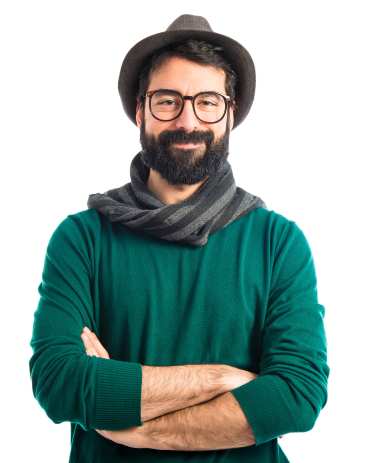
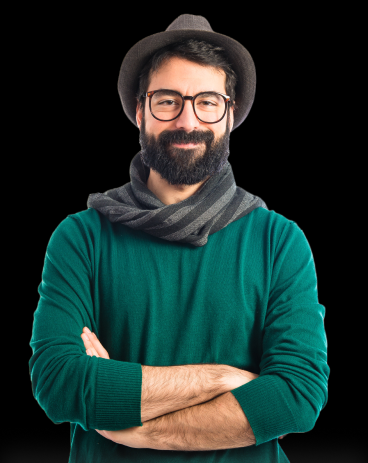
Home Profile Image Added

diff --git a/dist/css/style.css b/dist/css/style.css
@@ -1,1 +1,1 @@
-@import url(https://fonts.googleapis.com/css2?family=DM+Sans:ital,opsz,wght@0,9..40,100..1000;1,9..40,100..1000&display=swap);*,::after,::before{--tw-border-spacing-x:0;--tw-border-spacing-y:0;--tw-translate-x:0;--tw-translate-y:0;--tw-rotate:0;--tw-skew-x:0;--tw-skew-y:0;--tw-scale-x:1;--tw-scale-y:1;--tw-scroll-snap-strictness:proximity;--tw-ring-offset-width:0px;--tw-ring-offset-color:#fff;--tw-ring-color:rgb(59 130 246 / 0.5);--tw-ring-offset-shadow:0 0 #0000;--tw-ring-shadow:0 0 #0000;--tw-shadow:0 0 #0000;--tw-shadow-colored:0 0 #0000}::backdrop{--tw-border-spacing-x:0;--tw-border-spacing-y:0;--tw-translate-x:0;--tw-translate-y:0;--tw-rotate:0;--tw-skew-x:0;--tw-skew-y:0;--tw-scale-x:1;--tw-scale-y:1;--tw-scroll-snap-strictness:proximity;--tw-ring-offset-width:0px;--tw-ring-offset-color:#fff;--tw-ring-color:rgb(59 130 246 / 0.5);--tw-ring-offset-shadow:0 0 #0000;--tw-ring-shadow:0 0 #0000;--tw-shadow:0 0 #0000;--tw-shadow-colored:0 0 #0000}*,::after,::before{box-sizing:border-box;border-width:0;border-style:solid;border-color:#e5e7eb}::after,::before{--tw-content:''}:host,html{line-height:1.5;-webkit-text-size-adjust:100%;-moz-tab-size:4;-o-tab-size:4;tab-size:4;font-family:ui-sans-serif,system-ui,sans-serif,"Apple Color Emoji","Segoe UI Emoji","Segoe UI Symbol","Noto Color Emoji";font-feature-settings:normal;font-variation-settings:normal;-webkit-tap-highlight-color:transparent}body{margin:0;line-height:inherit}hr{height:0;color:inherit;border-top-width:1px}abbr:where([title]){-webkit-text-decoration:underline dotted;text-decoration:underline dotted}h1,h2,h3,h4,h5,h6{font-size:inherit;font-weight:inherit}a{color:inherit;text-decoration:inherit}b,strong{font-weight:bolder}code,kbd,pre,samp{font-family:ui-monospace,SFMono-Regular,Menlo,Monaco,Consolas,"Liberation Mono","Courier New",monospace;font-feature-settings:normal;font-variation-settings:normal;font-size:1em}small{font-size:80%}sub,sup{font-size:75%;line-height:0;position:relative;vertical-align:baseline}sub{bottom:-.25em}sup{top:-.5em}table{text-indent:0;border-color:inherit;border-collapse:collapse}button,input,optgroup,select,textarea{font-family:inherit;font-feature-settings:inherit;font-variation-settings:inherit;font-size:100%;font-weight:inherit;line-height:inherit;letter-spacing:inherit;color:inherit;margin:0;padding:0}button,select{text-transform:none}button,input:where([type=button]),input:where([type=reset]),input:where([type=submit]){-webkit-appearance:button;background-color:transparent;background-image:none}:-moz-focusring{outline:auto}:-moz-ui-invalid{box-shadow:none}progress{vertical-align:baseline}::-webkit-inner-spin-button,::-webkit-outer-spin-button{height:auto}[type=search]{-webkit-appearance:textfield;outline-offset:-2px}::-webkit-search-decoration{-webkit-appearance:none}::-webkit-file-upload-button{-webkit-appearance:button;font:inherit}summary{display:list-item}blockquote,dd,dl,figure,h1,h2,h3,h4,h5,h6,hr,p,pre{margin:0}fieldset{margin:0;padding:0}legend{padding:0}menu,ol,ul{list-style:none;margin:0;padding:0}dialog{padding:0}textarea{resize:vertical}input::-moz-placeholder,textarea::-moz-placeholder{opacity:1;color:#9ca3af}input::placeholder,textarea::placeholder{opacity:1;color:#9ca3af}[role=button],button{cursor:pointer}:disabled{cursor:default}audio,canvas,embed,iframe,img,object,svg,video{display:block;vertical-align:middle}img,video{max-width:100%;height:auto}[hidden]:where(:not([hidden=until-found])){display:none}.linearText{background:linear-gradient(90deg,#f5bd4d .36%,#f89222 99.88%);background-clip:text;-webkit-background-clip:text;-webkit-text-fill-color:transparent}.fixed{position:fixed}.left-0{left:0}.right-0{right:0}.top-0{top:0}.mt-20{margin-top:5rem}.mt-24{margin-top:6rem}.mt-40{margin-top:10rem}.flex{display:flex}.h-10{height:2.5rem}.w-10{width:2.5rem}.w-2\/3{width:66.666667%}.w-2\/6{width:33.333333%}.cursor-pointer{cursor:pointer}.flex-col{flex-direction:column}.items-center{align-items:center}.justify-between{justify-content:space-between}.gap-1{gap:.25rem}.gap-2{gap:.5rem}.gap-4{gap:1rem}.rounded-full{border-radius:9999px}.rounded-md{border-radius:.375rem}.border-2{border-width:2px}.border-l-2{border-left-width:2px}.border-\[\#353535\]{--tw-border-opacity:1;border-color:rgb(53 53 53 / var(--tw-border-opacity))}.border-primary{--tw-border-opacity:1;border-color:rgb(245 189 77 / var(--tw-border-opacity))}.bg-\[\#121414\]{--tw-bg-opacity:1;background-color:rgb(18 20 20 / var(--tw-bg-opacity))}.bg-\[\#171B1A\]{--tw-bg-opacity:1;background-color:rgb(23 27 26 / var(--tw-bg-opacity))}.p-1{padding:.25rem}.px-20{padding-left:5rem;padding-right:5rem}.px-4{padding-left:1rem;padding-right:1rem}.px-6{padding-left:1.5rem;padding-right:1.5rem}.py-3{padding-top:.75rem;padding-bottom:.75rem}.py-4{padding-top:1rem;padding-bottom:1rem}.pl-6{padding-left:1.5rem}.font-dmSans{font-family:"DM Sans",sans-serif}.text-2xl{font-size:1.5rem;line-height:2rem}.text-3xl{font-size:1.875rem;line-height:2.25rem}.text-base{font-size:1rem;line-height:1.5rem}.text-lg{font-size:1.125rem;line-height:1.75rem}.font-bold{font-weight:700}.font-medium{font-weight:500}.text-\[\#C2C2C2\]{--tw-text-opacity:1;color:rgb(194 194 194 / var(--tw-text-opacity))}.text-white{--tw-text-opacity:1;color:rgb(255 255 255 / var(--tw-text-opacity))}.backgroundLinear{background:linear-gradient(90deg,#f5bd4d 00.36%,#f89222 9999.88%)}@media (min-width:768px){.md\:px-6{padding-left:1.5rem;padding-right:1.5rem}}
+@import url(https://fonts.googleapis.com/css2?family=DM+Sans:ital,opsz,wght@0,9..40,100..1000;1,9..40,100..1000&display=swap);*,::after,::before{--tw-border-spacing-x:0;--tw-border-spacing-y:0;--tw-translate-x:0;--tw-translate-y:0;--tw-rotate:0;--tw-skew-x:0;--tw-skew-y:0;--tw-scale-x:1;--tw-scale-y:1;--tw-scroll-snap-strictness:proximity;--tw-ring-offset-width:0px;--tw-ring-offset-color:#fff;--tw-ring-color:rgb(59 130 246 / 0.5);--tw-ring-offset-shadow:0 0 #0000;--tw-ring-shadow:0 0 #0000;--tw-shadow:0 0 #0000;--tw-shadow-colored:0 0 #0000}::backdrop{--tw-border-spacing-x:0;--tw-border-spacing-y:0;--tw-translate-x:0;--tw-translate-y:0;--tw-rotate:0;--tw-skew-x:0;--tw-skew-y:0;--tw-scale-x:1;--tw-scale-y:1;--tw-scroll-snap-strictness:proximity;--tw-ring-offset-width:0px;--tw-ring-offset-color:#fff;--tw-ring-color:rgb(59 130 246 / 0.5);--tw-ring-offset-shadow:0 0 #0000;--tw-ring-shadow:0 0 #0000;--tw-shadow:0 0 #0000;--tw-shadow-colored:0 0 #0000}*,::after,::before{box-sizing:border-box;border-width:0;border-style:solid;border-color:#e5e7eb}::after,::before{--tw-content:''}:host,html{line-height:1.5;-webkit-text-size-adjust:100%;-moz-tab-size:4;-o-tab-size:4;tab-size:4;font-family:ui-sans-serif,system-ui,sans-serif,"Apple Color Emoji","Segoe UI Emoji","Segoe UI Symbol","Noto Color Emoji";font-feature-settings:normal;font-variation-settings:normal;-webkit-tap-highlight-color:transparent}body{margin:0;line-height:inherit}hr{height:0;color:inherit;border-top-width:1px}abbr:where([title]){-webkit-text-decoration:underline dotted;text-decoration:underline dotted}h1,h2,h3,h4,h5,h6{font-size:inherit;font-weight:inherit}a{color:inherit;text-decoration:inherit}b,strong{font-weight:bolder}code,kbd,pre,samp{font-family:ui-monospace,SFMono-Regular,Menlo,Monaco,Consolas,"Liberation Mono","Courier New",monospace;font-feature-settings:normal;font-variation-settings:normal;font-size:1em}small{font-size:80%}sub,sup{font-size:75%;line-height:0;position:relative;vertical-align:baseline}sub{bottom:-.25em}sup{top:-.5em}table{text-indent:0;border-color:inherit;border-collapse:collapse}button,input,optgroup,select,textarea{font-family:inherit;font-feature-settings:inherit;font-variation-settings:inherit;font-size:100%;font-weight:inherit;line-height:inherit;letter-spacing:inherit;color:inherit;margin:0;padding:0}button,select{text-transform:none}button,input:where([type=button]),input:where([type=reset]),input:where([type=submit]){-webkit-appearance:button;background-color:transparent;background-image:none}:-moz-focusring{outline:auto}:-moz-ui-invalid{box-shadow:none}progress{vertical-align:baseline}::-webkit-inner-spin-button,::-webkit-outer-spin-button{height:auto}[type=search]{-webkit-appearance:textfield;outline-offset:-2px}::-webkit-search-decoration{-webkit-appearance:none}::-webkit-file-upload-button{-webkit-appearance:button;font:inherit}summary{display:list-item}blockquote,dd,dl,figure,h1,h2,h3,h4,h5,h6,hr,p,pre{margin:0}fieldset{margin:0;padding:0}legend{padding:0}menu,ol,ul{list-style:none;margin:0;padding:0}dialog{padding:0}textarea{resize:vertical}input::-moz-placeholder,textarea::-moz-placeholder{opacity:1;color:#9ca3af}input::placeholder,textarea::placeholder{opacity:1;color:#9ca3af}[role=button],button{cursor:pointer}:disabled{cursor:default}audio,canvas,embed,iframe,img,object,svg,video{display:block;vertical-align:middle}img,video{max-width:100%;height:auto}[hidden]:where(:not([hidden=until-found])){display:none}.linearText{background:linear-gradient(90deg,#f5bd4d .36%,#f89222 99.88%);background-clip:text;-webkit-background-clip:text;-webkit-text-fill-color:transparent}.fixed{position:fixed}.left-0{left:0}.right-0{right:0}.top-0{top:0}.mt-24{margin-top:6rem}.flex{display:flex}.h-10{height:2.5rem}.h-8{height:2rem}.h-96{height:24rem}.w-10{width:2.5rem}.w-2\/3{width:66.666667%}.w-2\/6{width:33.333333%}.w-8{width:2rem}.w-96{width:24rem}.cursor-pointer{cursor:pointer}.flex-col{flex-direction:column}.items-center{align-items:center}.justify-center{justify-content:center}.justify-between{justify-content:space-between}.gap-1{gap:.25rem}.gap-2{gap:.5rem}.gap-4{gap:1rem}.rounded-full{border-radius:9999px}.rounded-md{border-radius:.375rem}.border-2{border-width:2px}.border-l-2{border-left-width:2px}.border-\[\#353535\]{--tw-border-opacity:1;border-color:rgb(53 53 53 / var(--tw-border-opacity))}.border-primary{--tw-border-opacity:1;border-color:rgb(245 189 77 / var(--tw-border-opacity))}.bg-\[\#000\]{--tw-bg-opacity:1;background-color:rgb(0 0 0 / var(--tw-bg-opacity))}.bg-\[\#121414\]{--tw-bg-opacity:1;background-color:rgb(18 20 20 / var(--tw-bg-opacity))}.bg-\[\#171B1A\]{--tw-bg-opacity:1;background-color:rgb(23 27 26 / var(--tw-bg-opacity))}.p-1{padding:.25rem}.px-20{padding-left:5rem;padding-right:5rem}.px-4{padding-left:1rem;padding-right:1rem}.px-6{padding-left:1.5rem;padding-right:1.5rem}.py-3{padding-top:.75rem;padding-bottom:.75rem}.py-4{padding-top:1rem;padding-bottom:1rem}.pl-6{padding-left:1.5rem}.font-dmSans{font-family:"DM Sans",sans-serif}.text-2xl{font-size:1.5rem;line-height:2rem}.text-3xl{font-size:1.875rem;line-height:2.25rem}.text-base{font-size:1rem;line-height:1.5rem}.text-lg{font-size:1.125rem;line-height:1.75rem}.font-bold{font-weight:700}.font-medium{font-weight:500}.text-\[\#C2C2C2\]{--tw-text-opacity:1;color:rgb(194 194 194 / var(--tw-text-opacity))}.text-white{--tw-text-opacity:1;color:rgb(255 255 255 / var(--tw-text-opacity))}.backgroundLinear{background:linear-gradient(90deg,#f5bd4d 00.36%,#f89222 9999.88%)}@media (min-width:768px){.md\:px-6{padding-left:1.5rem;padding-right:1.5rem}}

diff --git a/index.html b/index.html
@@ -1,5 +1,5 @@
 <!DOCTYPE html>
-<html lang="en">
+<html lang="en" data-theme="dark">
 <head>
     <meta charset="UTF-8">
     <meta name="viewport" content="width=device-width, initial-scale=1.0">
@@ -33,39 +33,79 @@
     <!-- ========================== Main Start =================================== -->
      <main class="px-4 md:px-6 mt-24">
         <!-- ================= Left Side Start =================== -->
-         <aside>
-            <!-- =================== Nav Links Start ==================== -->
-             <div class="mt-20">
-                <ul class="flex flex-col gap-4 mt-40">
-                    <li>
-                        <a href="#" class="cursor-pointer w-10 h-10">
-                            <img src="./images/home1.svg" alt="home menu" loading="lazy">
-                        </a>
-                    </li>
-                    <li>
-                        <a href="#" class="cursor-pointer w-10 h-10">
-                            <img src="./images/about.svg" alt="home menu" loading="lazy">
-                        </a>
-                    </li>
-                    <li>
-                        <a href="#" class="cursor-pointer w-10 h-10">
-                            <img src="./images/portfolio.svg" alt="home menu" loading="lazy">
-                        </a>
-                    </li>
-                    <li>
-                        <a href="#" class="cursor-pointer w-10 h-10">
-                            <img src="./images/blog.svg" alt="home menu" loading="lazy">
-                        </a>
-                    </li>
-                    <li>
-                        <a href="#" class="cursor-pointer w-10 h-10">
-                            <img src="./images/contact.svg" alt="home menu" loading="lazy">
-                        </a>
-                    </li>
-                </ul>
-             </div>
-            <!-- =================== Nav Links end ==================== -->
-         </aside>
+        <section>
+             <aside class="flex items-center gap-4">
+                <!-- =================== Nav Links Start ==================== -->
+                 <div>
+                    <ul class="flex flex-col gap-4">
+                        <li>
+                            <a href="#" class="cursor-pointer w-10 h-10">
+                                <img src="./images/home1.svg" alt="home menu" loading="lazy">
+                            </a>
+                        </li>
+                        <li>
+                            <a href="#" class="cursor-pointer w-10 h-10">
+                                <img src="./images/about.svg" alt="home menu" loading="lazy">
+                            </a>
+                        </li>
+                        <li>
+                            <a href="#" class="cursor-pointer w-10 h-10">
+                                <img src="./images/portfolio.svg" alt="home menu" loading="lazy">
+                            </a>
+                        </li>
+                        <li>
+                            <a href="#" class="cursor-pointer w-10 h-10">
+                                <img src="./images/blog.svg" alt="home menu" loading="lazy">
+                            </a>
+                        </li>
+                        <li>
+                            <a href="#" class="cursor-pointer w-10 h-10">
+                                <img src="./images/contact.svg" alt="home menu" loading="lazy">
+                            </a>
+                        </li>
+                    </ul>
+                 </div>
+                <!-- =================== Nav Links end ==================== -->
+
+                <!-- ==================== Profile Image Start ======================= -->
+                 <div>
+                    <figure>
+                        <img class="w-96 h-96" src="./images/profileImage.png" alt="Profile Image" loading="lazy">
+                    </figure>
+
+                    <div class="bg-[#000] py-4 flex justify-center items-center">
+                        <ul class="flex items-center gap-4">
+                            <li class="w-8 h-8 bg-[#121414] flex justify-center items-center rounded-full">
+                                <a href="#">
+                                    <img src="./images/facebook.svg" alt="facebook logo" loading="lazy">
+                                </a>
+                            </li>
+                            <li class="w-8 h-8 bg-[#121414] flex justify-center items-center rounded-full">
+                                <a href="#">
+                                    <img src="./images/linkedin.svg" alt="linkedin logo" loading="lazy">
+                                </a>
+                            </li>
+                            <li class="w-8 h-8 bg-[#121414] flex justify-center items-center rounded-full">
+                                <a href="#">
+                                    <img src="./images/pinterest.svg" alt="pinterest logo" loading="lazy">
+                                </a>
+                            </li>
+                            <li class="w-8 h-8 bg-[#121414] flex justify-center items-center rounded-full">
+                                <a href="#">
+                                    <img src="./images/instagram.svg" alt="instagram logo" loading="lazy">
+                                </a>
+                            </li>
+                            <li class="w-8 h-8 bg-[#121414] flex justify-center items-center rounded-full">
+                                <a href="#">
+                                    <img src="./images/twitter.svg" alt="twitter logo" loading="lazy">
+                                </a>
+                            </li>
+                        </ul>
+                    </div>
+                 </div>
+                <!-- ==================== Profile Image End ======================= -->
+             </aside>
+        </section>
         <!-- ================= Left Side End =================== -->
      </main>
     <!-- ========================== Main End =================================== -->
